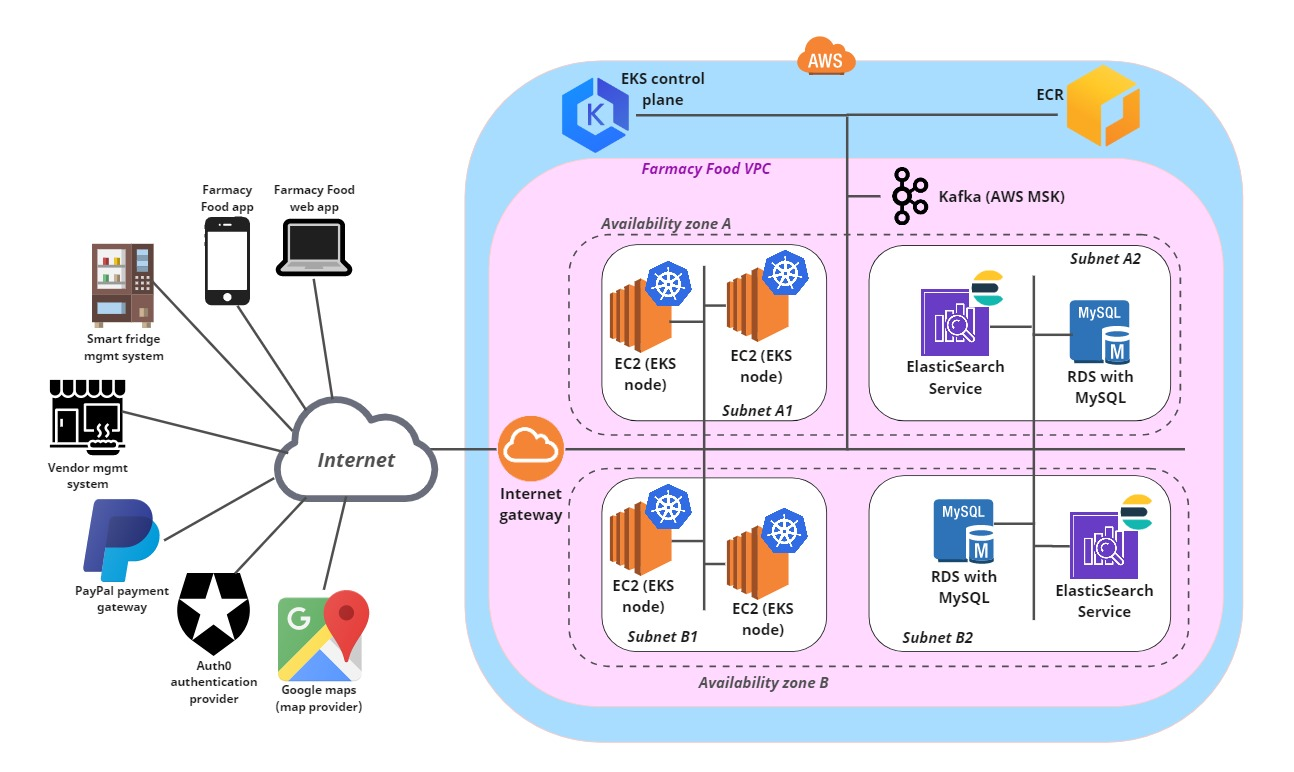
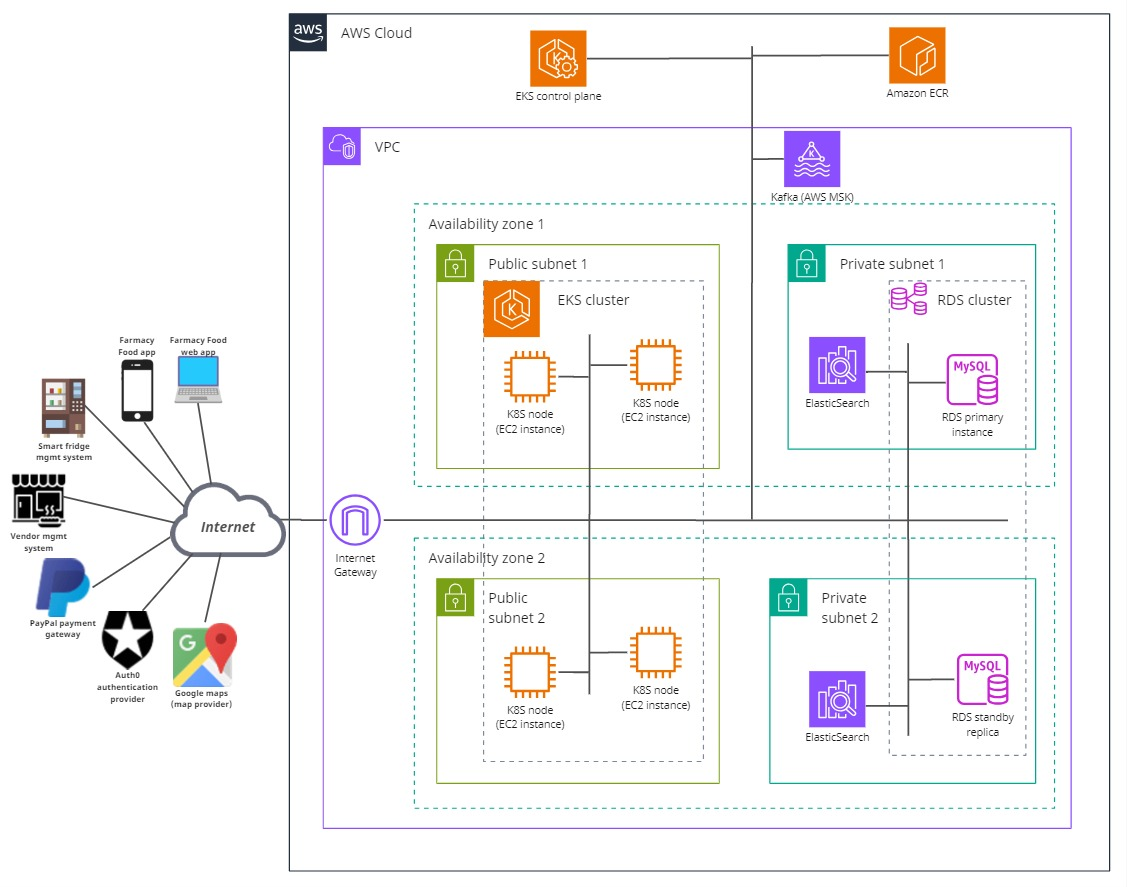
recreated AWS deployment diagram to use standard AWS symbols

diff --git a/architecture/aws-deployment-view.md b/architecture/aws-deployment-view.md
@@ -10,12 +10,11 @@ guidelines for EKS topology.
 
 ## Element Catalog 
 
-#### EC2 (EKS node)
+#### K8S node (EC2 instance)
 - The [Elastic Kubernetes Service](https://aws.amazon.com/eks/features/) (EKS) allows you to easily configure 
 a Kubernetes (K8S) cluster in the AWS cloud. 
-- Many of the tasks related to creating, configuring, and monitoring K8S nodes and clusters is done for you.
 - A K8S cluster has *worker nodes* that run your application as docker containers that are deployed in *pods*. 
-In EKS, these nodes are EC2 instances inside a private network (VPC) that you define within AWS. 
+In EKS, these nodes are EC2 instances declared as part of a *node group* that is configured inside your VPC. 
 - The nodes in an EKS cluster should be in 2+ availability zones (AZs). The diagram illustrates two AZs.  
 - We'll use the EKS cluster to run the following types of components seen in the microservice and EDA views:
   - microservices that contain REST services
@@ -29,23 +28,24 @@ In EKS, these nodes are EC2 instances inside a private network (VPC) that you de
 information [here](https://kubernetes.io/docs/concepts/overview/components/).
 - The EKS control plane executes under an AWS-managed account. That's why it's represented outside the Farmacy Food VPC.
       
-#### ECR 
+#### Amazon ECR 
 - The [Amazon Elastic Container Registry](https://aws.amazon.com/ecr/) (ECR) is a docker container registry that 
 Farmacy Food will use within AWS to store the several docker images comprising the Farmacy Food system.
 - ECR is an alternative to docker-hub. 
 - It's a fully managed service provided by AWS.
       
-#### RDS with MySQL
+#### RDS primary instance, RDS standby replica
 - [RDS](https://aws.amazon.com/rds/) is a relational database managed service by AWS. (There are other options for the 
 database server to be used, such as  Oracle, PostgreSql, Aurora, but MySQL is eligible for AWS free tier and should 
 reduce the upfront investment to set up and explore an AWS dev environment.)       
-- Should be configured with the multi-AZ deployment option for increased availability.
+- Should be configured as a RDS cluster with the multi-AZ deployment option for increased availability. In this case there's a primary instance,
+and a standby replica that is kept in sync automatically after a write operation on the primary. 
 - The Farmacy Food System will use RDS with MySQL as the primary read-write data store to persist different types of data. 
 For example, the **Inventory** database seen below will be configured as a set of tables in RDS.
 
 ![AWS deployment view](../images/inventory-db-symbol.png)    
 
-#### Amazon Elasticsearch service
+#### ElasticSearch
 - The [Elasticsearch service on AWS](https://aws.amazon.com/elasticsearch-service/) (ES) is a fully managed text-based NoSQL 
 database service that the Farmacy Food system will use for query views in different microservices.
 - There will be an ES *domain* for Farmacy Food. This ES domain should use the Farmacy Food VPC to enable automatic
@@ -62,24 +62,31 @@ For example, the **Inventory Query View** database seen below will be configured
 - Components that send messages (producers aka publishers) and receive messages (consumers aka subscribers) can be 
 implemented using various languages and frameworks. For example, we can use the [spring cloud AWS](https://www.baeldung.com/spring-cloud-aws-messaging)
 framework.  
-- The various topics seen in the EDA architecture views shall be configured in the MSK cluster with minimum replication factor of 3.  
+- The various topics seen in the EDA architecture views shall be configured in the MSK cluster with minimum replication factor of 3.
+- The MSK service automatically provides multi AZ deployment of the Kafka cluster for enhanced availability and throughput. 
 
 ![AWS deployment view](../images/topic-symbol.png)
  
-#### Availability zone A, Availability zone B
+#### Availability zone 1, Availability zone 2
 - An [availability zone](https://docs.aws.amazon.com/AWSEC2/latest/UserGuide/using-regions-availability-zones.html#concepts-availability-zones) 
 (AZ) is a data center with its own power supply and network connectivity.
 - AZs are located within regions. Deploying cloud services/resources in 2+ AZs in the same region is the basic mechanism 
 for improved availability due to automatic failover.    
  
-#### Subnet A1, A2, B1, B2
+#### Public subnet 1 and 2, private subnet 1 and 2
 - A [subnet](https://docs.aws.amazon.com/vpc/latest/userguide/what-is-amazon-vpc.html) is a range of IP addresses within 
 a [virtual private cloud](https://docs.aws.amazon.com/vpc/latest/userguide/VPC_Subnets.html) (VPC).
-- Subnets A1 and B1 and *public* subnets, visible to the Internet via an AWS internet gateway.
-- Subnets A2 and B2 are *private* subnets. They can be connected to the Farmacy Food corporate LAN (not shown in the diagram). 
-- Although RDS and ES can be configured outside your VPC, we have them in private "db" subnets in the diagram as a 
-measure to protect them from unauthorized access.  
- 
+- Public subnets 1 and 2 are visible to the Internet via an AWS internet gateway.
+- Private subnets 1 and 2 are not visible to the Internet. They can be connected to the Farmacy Food corporate LAN (not shown in the diagram). 
+- Although RDS and ES are configured within private subnets as a measure to protect them from unauthorized access.  
+
+#### Internet gateway 
+- The [Internet gateway](https://docs.aws.amazon.com/vpc/latest/userguide/VPC_Internet_Gateway.html) is attached to your VPC. Via
+route tables it allows inbound and outbound traffic from/to the Internet to reach the elements in the public subnets. (Also has routes for private subnets for internal access.)
+- A more sophisticated alternative would be to use an API gateway, which has special features such as authentication, authorization, 
+request throttling, and caching. 
+
+
 ## Behavior
 N/A
  
